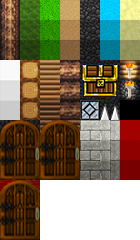
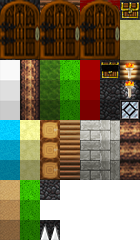
tuile maj

diff --git a/src/vue/Fenetre.java b/src/vue/Fenetre.java
@@ -80,7 +80,7 @@ public class Fenetre extends JFrame {
 
     public void init() {
         try {
-            tableauTuile = decoupage(ImageIO.read(new File("tuile/tuile.png")), DECOUPE_TUILE_EN_X, DECOUPE_TUILE_EN_Y);
+            tableauTuile = decoupage(ImageIO.read(new File("tuile/tuile33.png")), DECOUPE_TUILE_EN_X, DECOUPE_TUILE_EN_Y);
         } catch (IOException e) {
             e.printStackTrace();
         }
